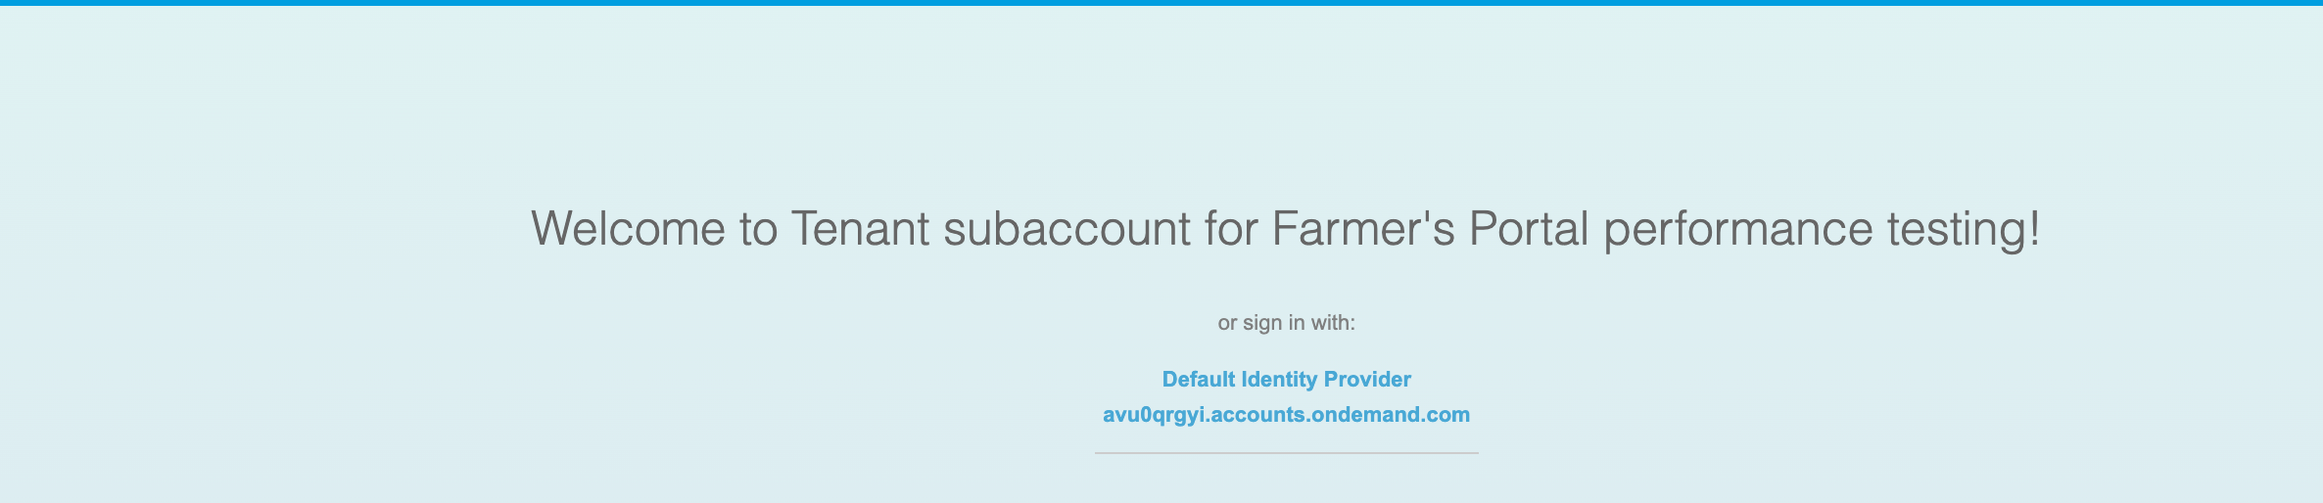
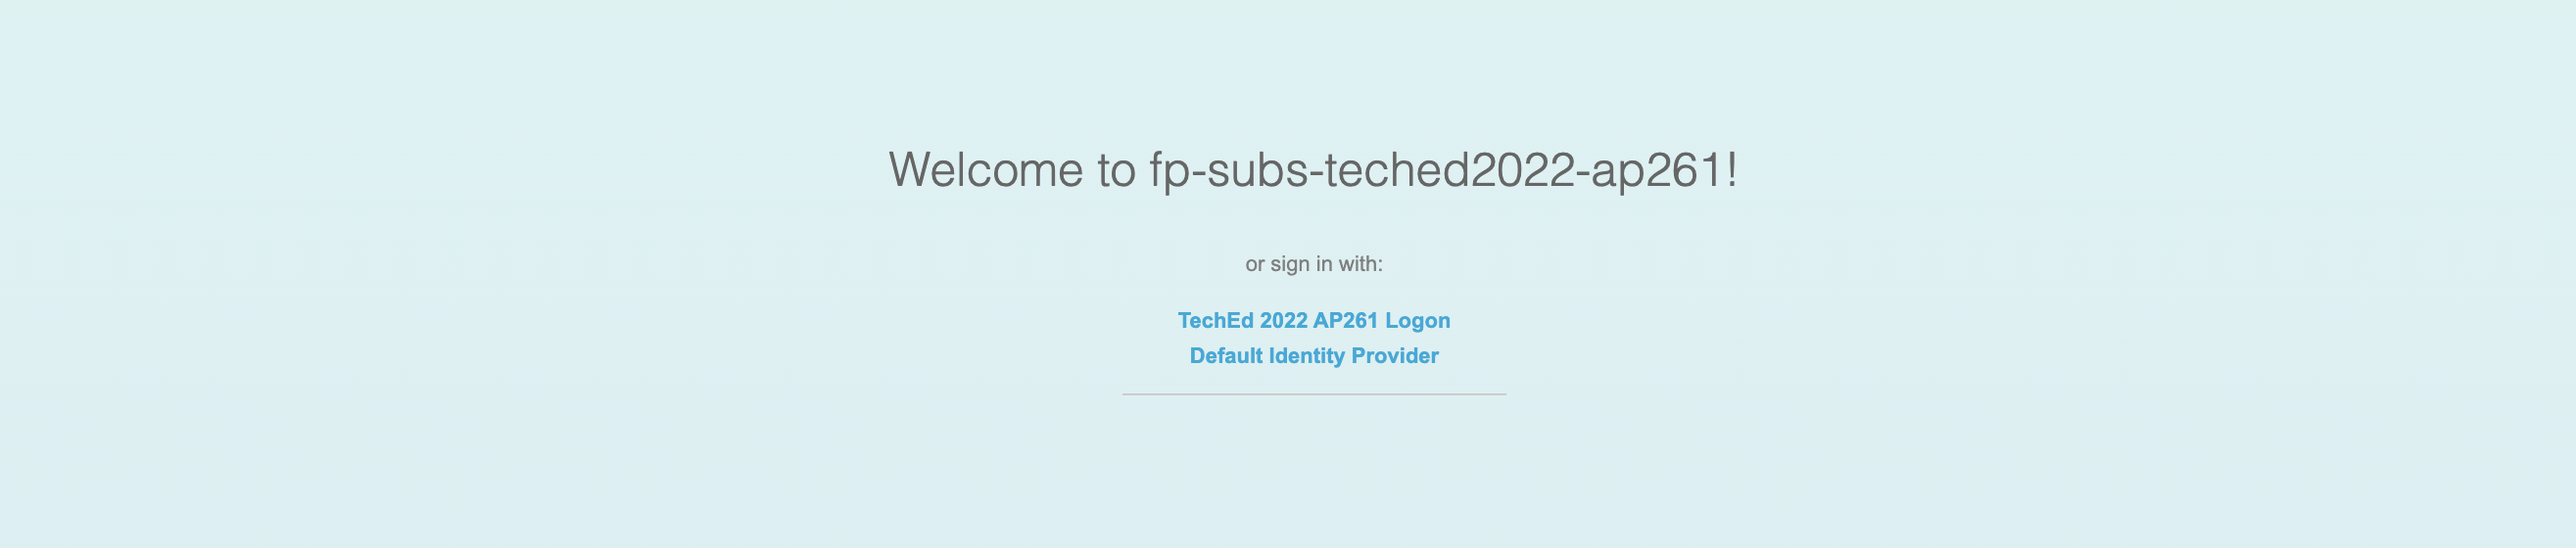
Elaborate exercise 0

diff --git a/exercises/ex0/README.md b/exercises/ex0/README.md
@@ -6,24 +6,31 @@ In this exercise, you will explore the "Origination Dashboard" of SAP Agricultur
 
 1.   As a prerequisite, please share your email id with the host to create your user and to give access to the application.
 
-2.   once your user is created by host, you would recieve an activation mail from SAP IAS which contains a link to activate your user along the 
+2.   Once your user is created by host, you will recieve an activation mail from SAP IAS which contains a link to activate your user along the 
      application link.
 
 3.   Please click on the activation link and proceed to setup the password and click on 'Save'. Clik on 'Continue' in the next screen. You will be redirected to following screen.
-<br>![](/exercises/ex0/images/image01.png)
-
-
-
-After completing the activation of your account, click on the following link
-
-1.	You will see the following Screen.
 <br>![](/exercises/ex0/images/Image1.png)
 
-2.	Please click on the highlighted link, You will be redirected to AGoP Launchpad. You will see the tiles as shown in the image below:
+4.   Click on link 'TechEd 2022 AP261 Logon' which will take you to the login page shown below. Please enter your credentials and proceed 
+     with the logon.
 <br>![](/exercises/ex0/images/Image2.png)
-3. Click on "Origination Dashboard" tile. This will take you to the dashboard as shown below:
+
+5.   On successfull logon, you will be redirected to the AGOP launchpad and load all the tiles as shown in the image below.
 <br>![](/exercises/ex0/images/Image3.png)
-4. You should be able to view the following cards:
+
+```
+Note that the reason for showing zero's in all the tiles is due to the fact that there is no business patner is mapped to your user at this point. Please inform host after this step so that he/she will assign the business pather to you user.
+```
+
+6.   Once the business patner/s is mapped your user, please refresh the screen of relogin to application so that you can see the count in 
+     all the tiles as shown below.     
+<br>![](/exercises/ex0/images/Image4.png)
+
+6. Click on "Origination Dashboard" tile. This will take you to the dashboard as shown below:
+<br>![](/exercises/ex0/images/Image5.png)
+
+7. You should be able to view the following cards:
      a) Total Contracts Quantity
      b) Total Contracts Open Quantity by Commodity
      c) Contract Monitoring – Priced Quantity
@@ -32,7 +39,7 @@ After completing the activation of your account, click on the following link
      f) Total Contracts Quantity in Storage
      g) Available Bids
 
-5. Auto apply default filters 
+8. Auto apply default filters 
   a) On load of Farmer Portal Overview page, Active contracts filter to be set as Yes, and the UOM to be set as default user onboarding UOM. 
   b)Contract quantities and the other data in the Farmer Portal Overview page is displayed in the default UOM. Uom Filter on the portal overview page is       set to default UOM value.
 
